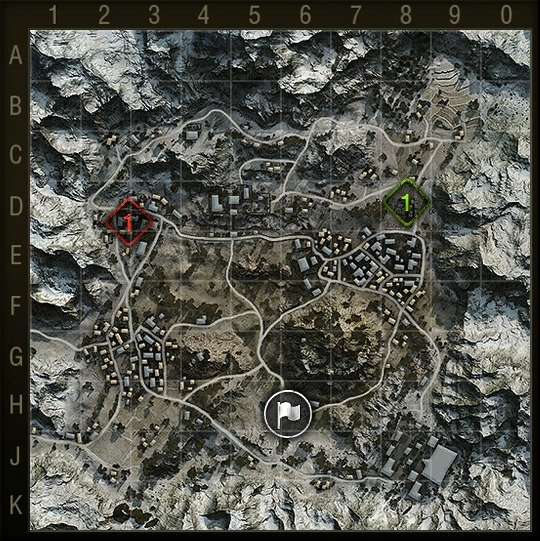
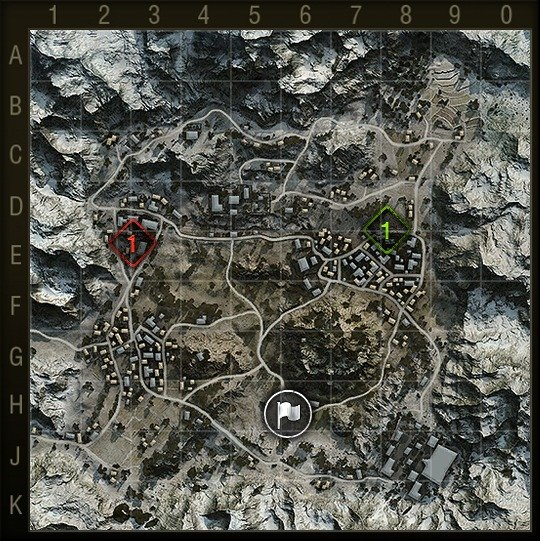
update maps for v0.9.1

Changed region(s): [[0.1778, 0.3549, 0.2963, 0.5028], [0.6519, 0.3253, 0.8, 0.4732]]

diff --git a/index.html b/index.html
@@ -1,6 +1,6 @@
 <html>
 <body>
-<h1>World of Tanks (version 0.9.0) minimaps</h1>
+<h1>World of Tanks (version 0.9.1) minimaps</h1>
 
 <p>Maps generated using <a href=https://github.com/Kuitsi/WotMiniMapMaker>WotMiniMapMaker</a>.<br />
 Team 1 = green, Team 2 = red.</p>
@@ -26,6 +26,7 @@ Team 1 = green, Team 2 = red.</p>
 <a href="maps/himmelsdorf.jpg">himmelsdorf.jpg</a>
 <a href="maps/karelia_assault.jpg">karelia_assault.jpg</a>
 <a href="maps/karelia.jpg">karelia.jpg</a>
+<a href="maps/kharkov.jpg">kharkov.jpg</a>
 <a href="maps/komarin.jpg">komarin.jpg</a>
 <a href="maps/lakeville_encounter.jpg">lakeville_encounter.jpg</a>
 <a href="maps/lakeville.jpg">lakeville.jpg</a>
